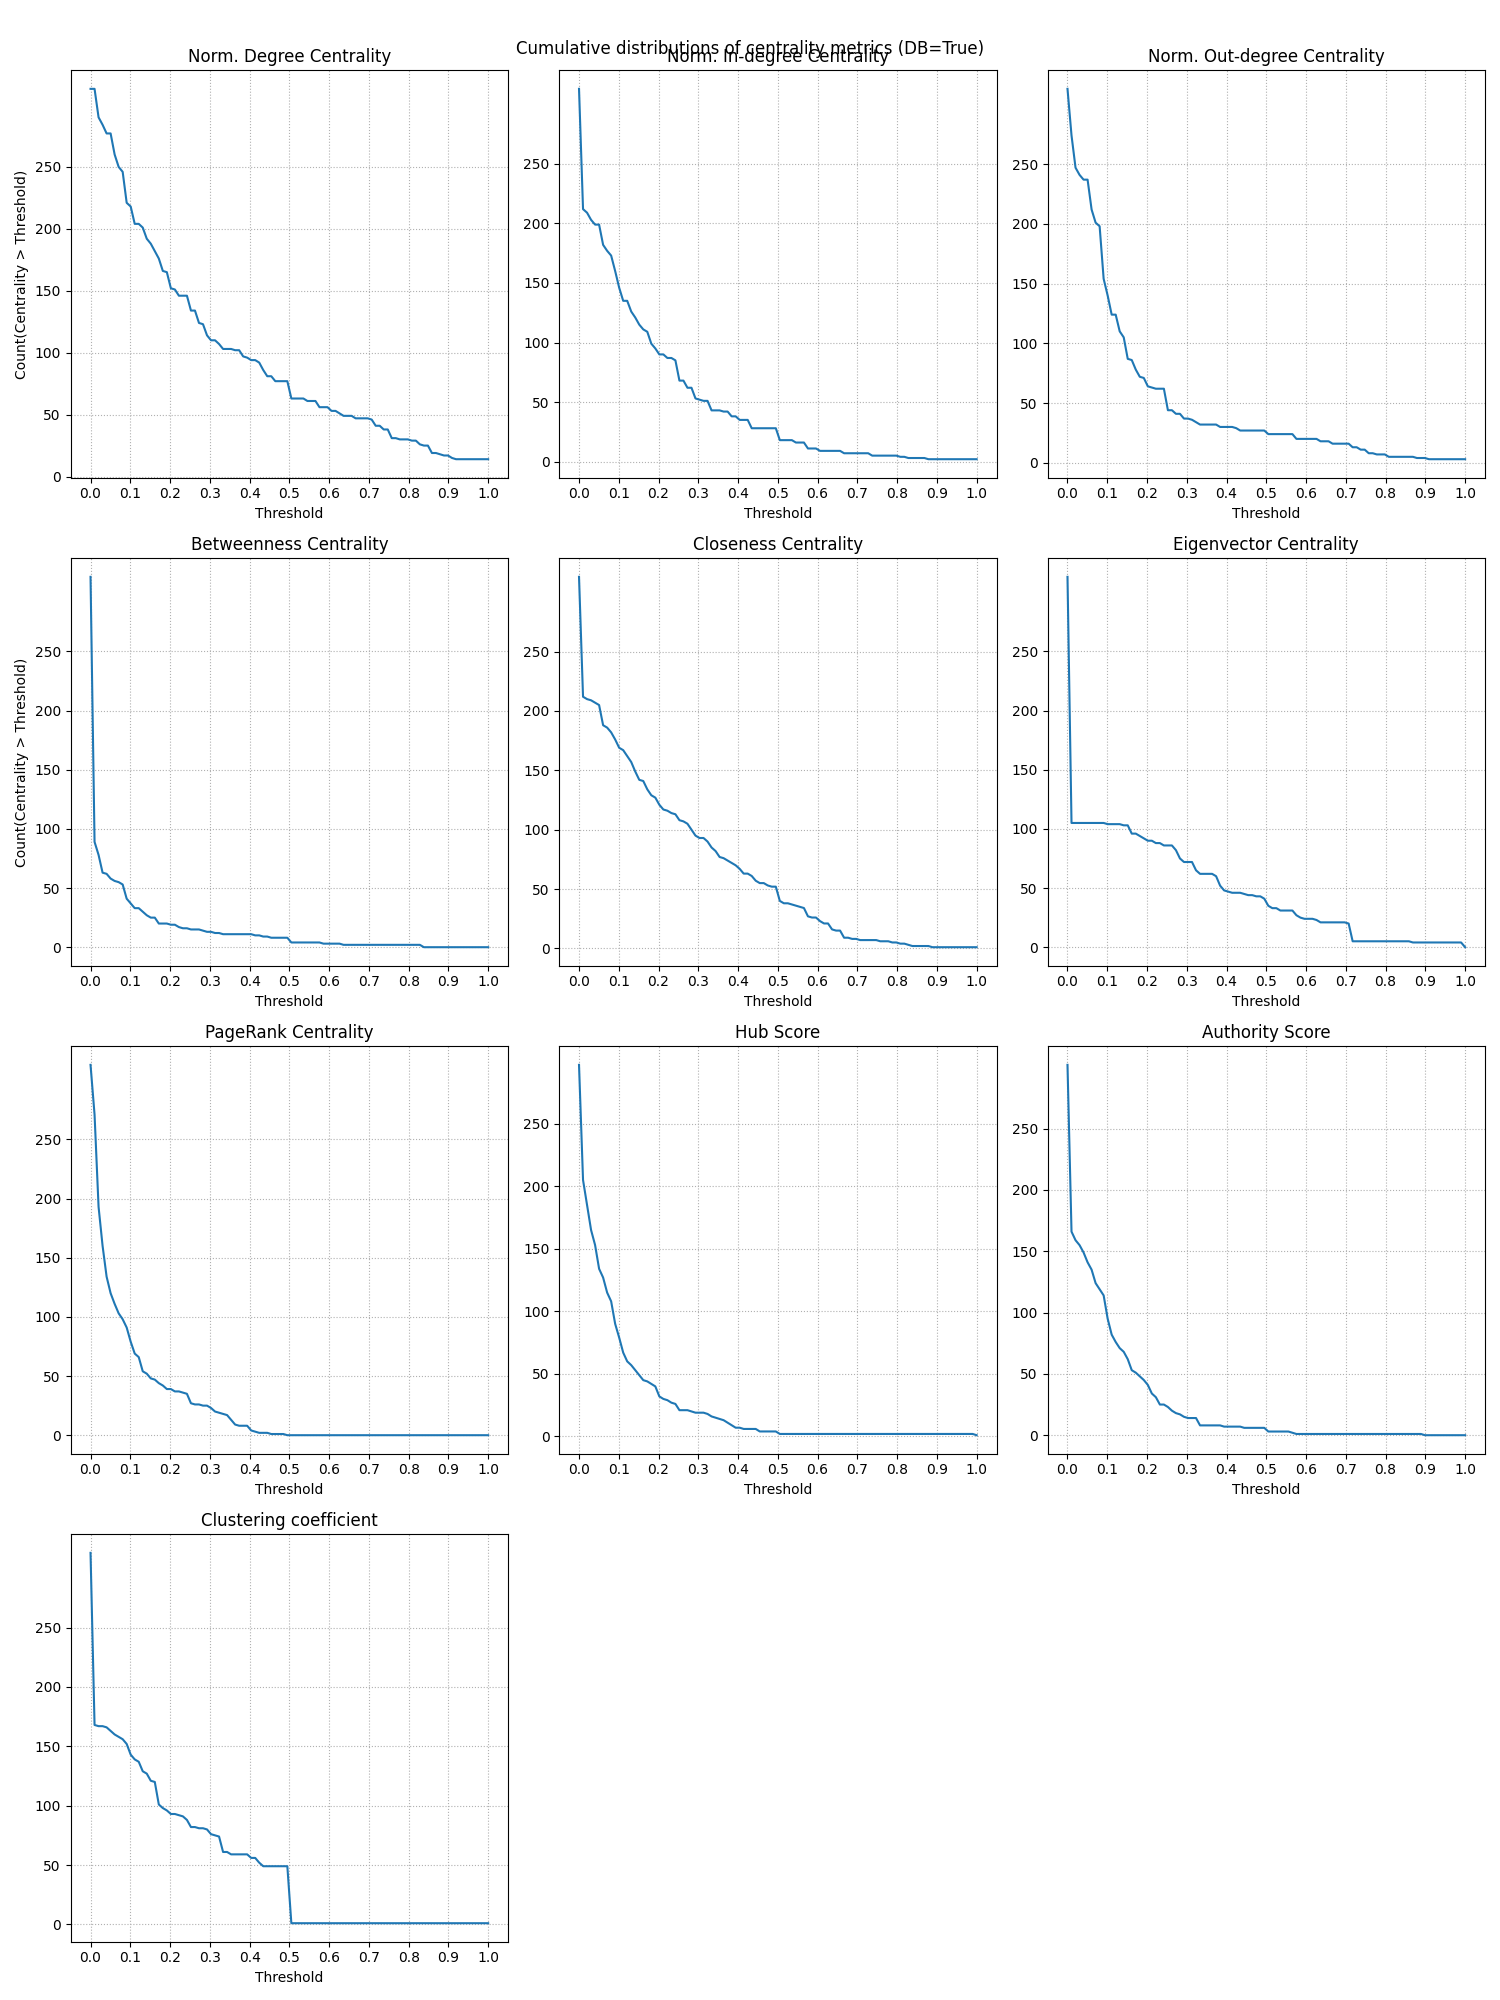
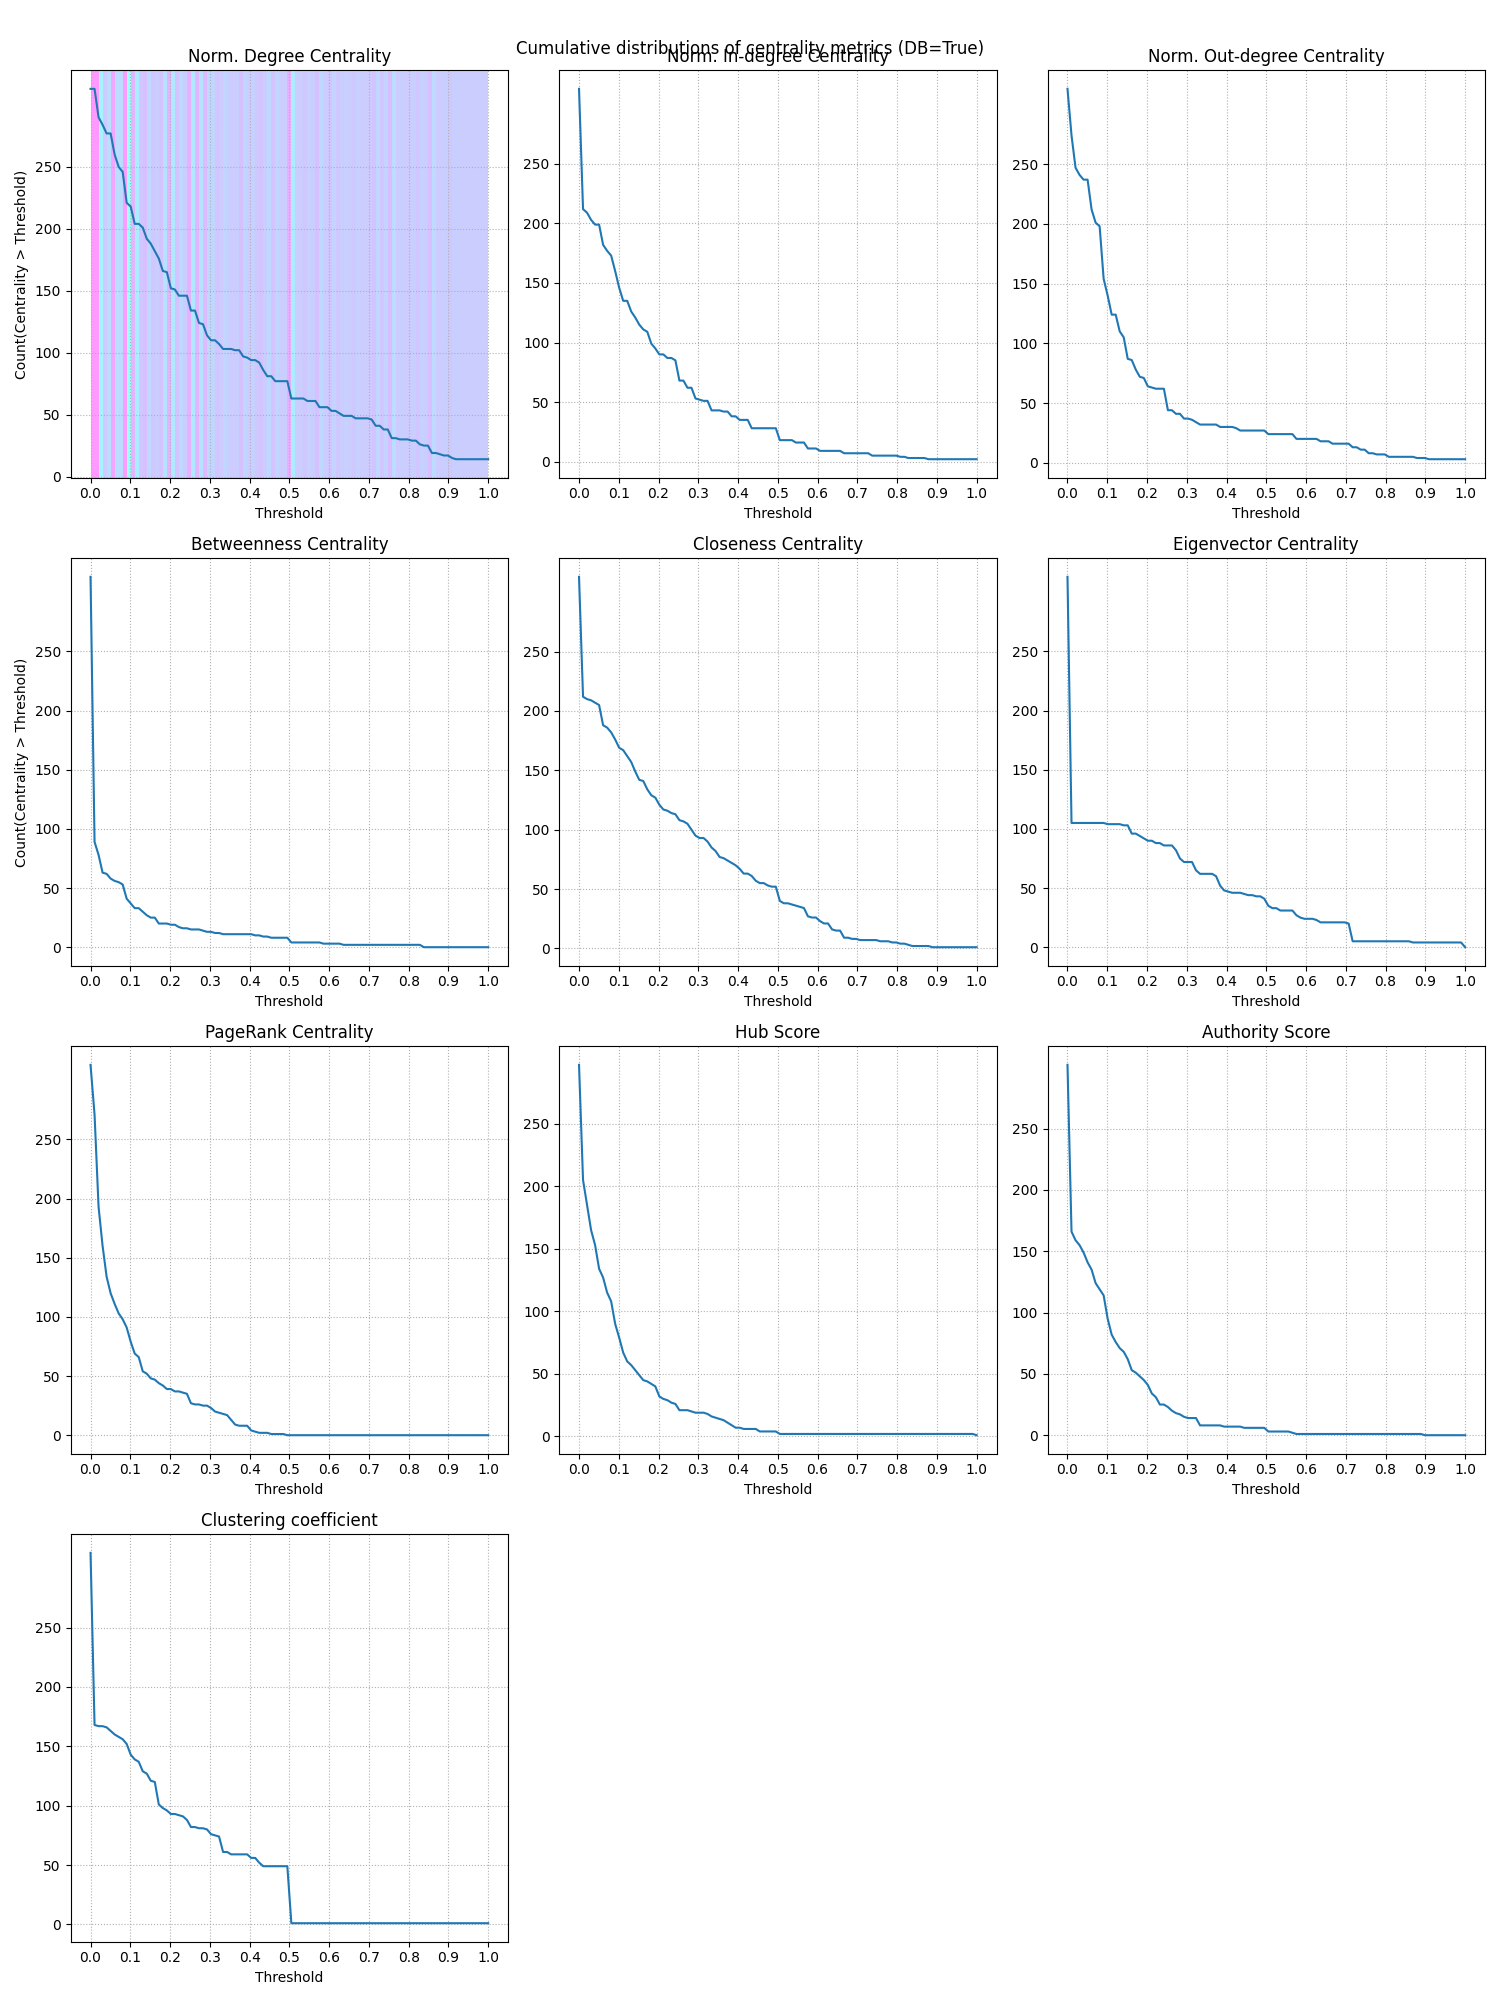
add: first derivative

Changed region(s): [[0.0613, 0.031, 0.3373, 0.248]]

diff --git a/figures.py b/figures.py
@@ -1,6 +1,19 @@
 import pandas as pd
 import numpy as np
 import matplotlib.pyplot as plt
+from matplotlib.colors import Normalize
+from matplotlib.cm import get_cmap
+
+def first_derivative(x, y):
+    x = np.array(x)
+    y = np.array(y)
+    dy = np.zeros_like(y)
+    dx = np.diff(x)
+
+    dy[1:-1] = (y[2:] - y[:-2]) / (x[2:] - x[:-2])  # central
+    dy[0] = (y[1] - y[0]) / dx[0]                  # forward
+    dy[-1] = (y[-1] - y[-2]) / dx[-1]              # backward
+    return dy
 
 def second_derivative(xs, ys):
     h = xs[1] - xs[0]
@@ -17,7 +30,7 @@ def second_derivative(xs, ys):
     # Backward difference for the last point
     second_deriv[-1] = (ys[-1] - 2 * ys[-2] + ys[-3]) / h ** 2
 
-    return second_deriv
+    return np.array(second_deriv)
 
 def get_dist(df, col, max, num=100):
     xs = np.linspace(0.0, max, num=num)
@@ -43,9 +56,11 @@ def plot_centrality_dist(DB: bool):
     auth_dist = get_dist(metrics, f"Authority Score", 1.0)
     cluster_dist = get_dist(metrics, "Clustering", 1.0)
 
-    deg_deriv = second_derivative(*norm_deg_dist)
-    deg_deriv = np.array(deg_deriv)
-    deg_deriv = deg_deriv > 0
+    norm_deg_deriv = second_derivative(*norm_deg_dist)
+
+    # 3. Normalize derivative values for colormap
+    norm = Normalize(vmin=np.min(norm_deg_deriv), vmax=np.max(norm_deg_deriv))
+    cmap = get_cmap('cool_r')  # or 'viridis', 'plasma', et
 
 
     ## Comparison figure
@@ -122,12 +137,11 @@ def plot_centrality_dist(DB: bool):
     plt.figure(figsize=(15,20))
     plt.subplot(431)
     plt.plot(norm_deg_dist[0], norm_deg_dist[1])
-    # # Shade regions based on the mask
-    # for i in range(len(norm_deg_dist[1]) - 1):
-    #     if deg_deriv[i]:
-    #         plt.axvspan(norm_deg_dist[0][i], norm_deg_dist[0][i + 1], color='lightgreen', alpha=0.3)
-    #     else:
-    #         plt.axvspan(norm_deg_dist[0][i], norm_deg_dist[0][i + 1], color='lightcoral', alpha=0.3)
+    for i in range(len(norm_deg_dist[0]) - 1):
+        plt.axvspan(norm_deg_dist[0][i], norm_deg_dist[0][i + 1],
+                   color=cmap(norm(norm_deg_deriv[i])),
+                   alpha=0.4,
+                   linewidth=0)
     plt.xlabel("Threshold")
     plt.ylabel("Count(Centrality > Threshold)")
     plt.xticks([0.0, 0.1, 0.2, 0.3, 0.4, 0.5, 0.6, 0.7, 0.8, 0.9, 1.0],
